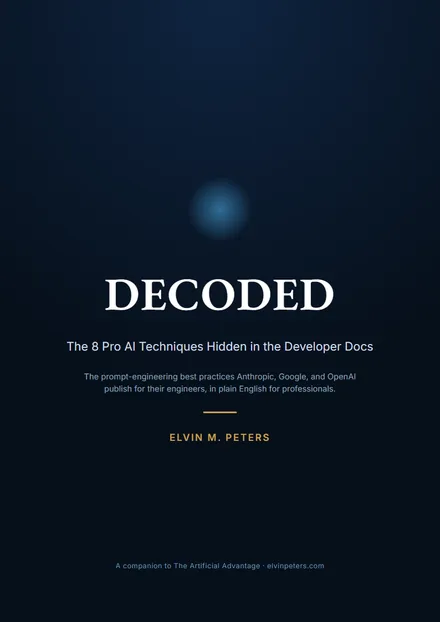
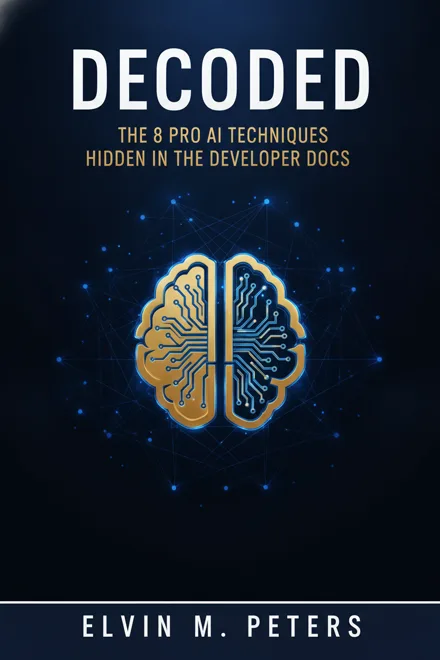
The last old DECODED render, replaced everywhere it appears
The 10-Guide Library card on /system/ still showed the HTML-composited
DECODED cover, illegible at card size, next to nine regenerated ones. The
new cover now IS img/magnets/decoded.webp, so the free magnet page, the
magnet index and the og:image all update with it, and the three dimension
attributes match the new 2:3 aspect.

diff --git a/free/index.html b/free/index.html
@@ -49,7 +49,7 @@ body{background:var(--bg);color:var(--ink);font-family:var(--sans);line-height:v
 </div>
 <div class="cards">
 <a class="mag" href="/free/ai-toolkit/" style="border-color:rgba(211,180,99,.5)"><div><h3>The Ultimate Free AI Resource Vault</h3><p>480+ hand-picked free tools, assets and libraries for building with AI, vectors, icons, animations, fonts, stock media, GitHub repos, Python &amp; JS libraries, AI models and prompt libraries. One spreadsheet.</p><span class="go">Get it free &rarr;</span></div></a>
-<a class="mag" href="/free/decoded/"><img src="/img/magnets/decoded.webp" alt="" width="440" height="622" loading="lazy"><div><h3>Decoded: 8 Pro AI Techniques</h3><p>The prompt techniques the pros use, pulled from the actual developer docs and written in plain English.</p><span class="go">Get it free &rarr;</span></div></a>
+<a class="mag" href="/free/decoded/"><img src="/img/magnets/decoded.webp" alt="" width="440" height="660" loading="lazy"><div><h3>Decoded: 8 Pro AI Techniques</h3><p>The prompt techniques the pros use, pulled from the actual developer docs and written in plain English.</p><span class="go">Get it free &rarr;</span></div></a>
 <a class="mag" href="/free/context-playbook/"><img src="/img/magnets/context-playbook.webp" alt="" width="440" height="622" loading="lazy"><div><h3>Feed It Your World: The Context Playbook</h3><p>Stop starting from scratch. Learn to give AI your own documents, data and files the right way.</p><span class="go">Get it free &rarr;</span></div></a>
 <a class="mag" href="/free/anti-hallucination/"><img src="/img/magnets/anti-hallucination.webp" alt="" width="440" height="622" loading="lazy"><div><h3>Tell Me the Truth: The Anti-Hallucination Field Guide</h3><p>Make AI stop making things up, and learn exactly when not to trust it.</p><span class="go">Get it free &rarr;</span></div></a>
 <a class="mag" href="/free/ai-assistant/"><img src="/img/magnets/ai-assistant.webp" alt="" width="440" height="622" loading="lazy"><div><h3>Build Your Own AI Assistant (No Code)</h3><p>A reusable assistant that already knows your job, so you never retype your context again.</p><span class="go">Get it free &rarr;</span></div></a>

diff --git a/system/index.html b/system/index.html
@@ -320,7 +320,7 @@ a=t.getElementsByTagName(n)[0],a.parentNode.insertBefore(u,a))}(window,document,
       <p>Done-for-you AI setups by job: Marketing, Sales, Finance, HR and more. Paste the playbook, and AI works like it actually understands your role.</p>
     </div>
     <div class="in-card">
-      <img src="/img/magnets/decoded.webp" alt="The 10-guide field library" loading="lazy" width="440" height="629" />
+      <img src="/img/magnets/decoded.webp" alt="The 10-guide field library" loading="lazy" width="440" height="660" />
       <h3>The 10-Guide Library</h3>
       <p>Ten focused field guides for what comes after the book. Every single one is listed below, so there is no mystery about what you get.</p>
     </div>

diff --git a/free/decoded/index.html b/free/decoded/index.html
@@ -70,7 +70,7 @@ h1{font-family:var(--serif);font-weight:600;font-size:var(--fs-h1);line-height:v
 </div>
 <div class="mcard" id="card">
 <div class="form-in">
-<img class="mcover" src="/img/magnets/decoded.webp" alt="Decoded: 8 Pro AI Techniques cover" width="440" height="622">
+<img class="mcover" src="/img/magnets/decoded.webp" alt="Decoded: 8 Pro AI Techniques cover" width="440" height="660">
 <h2>Get it free</h2>
 <div class="sub">Enter your email and it is yours. No spam, unsubscribe anytime.</div>
 <form id="f" novalidate>
